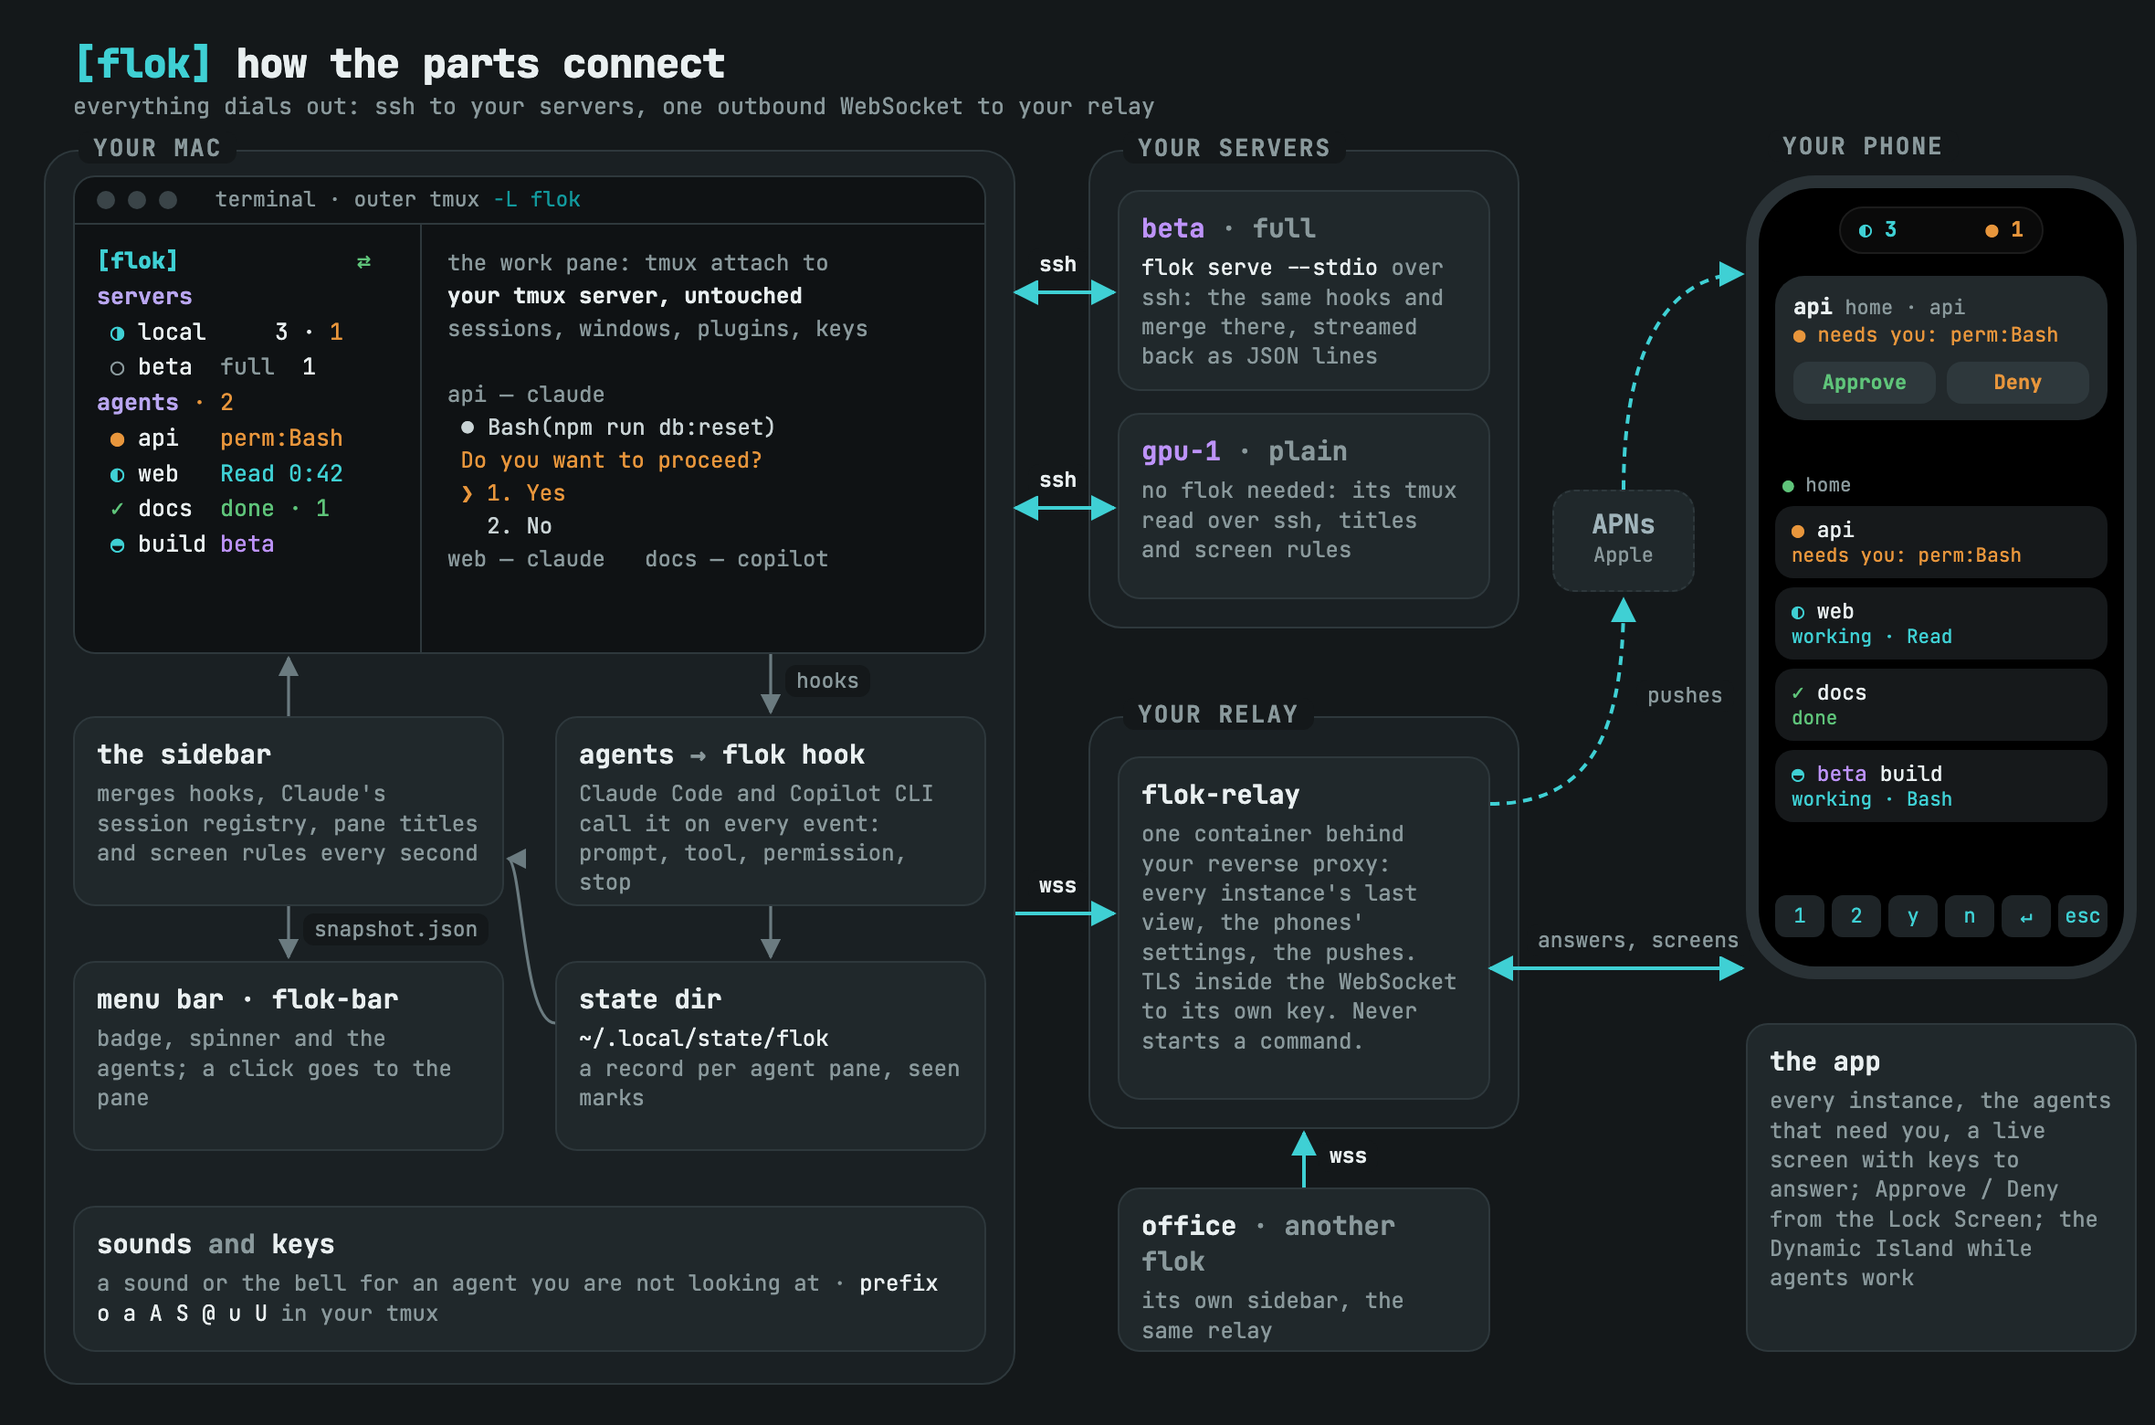
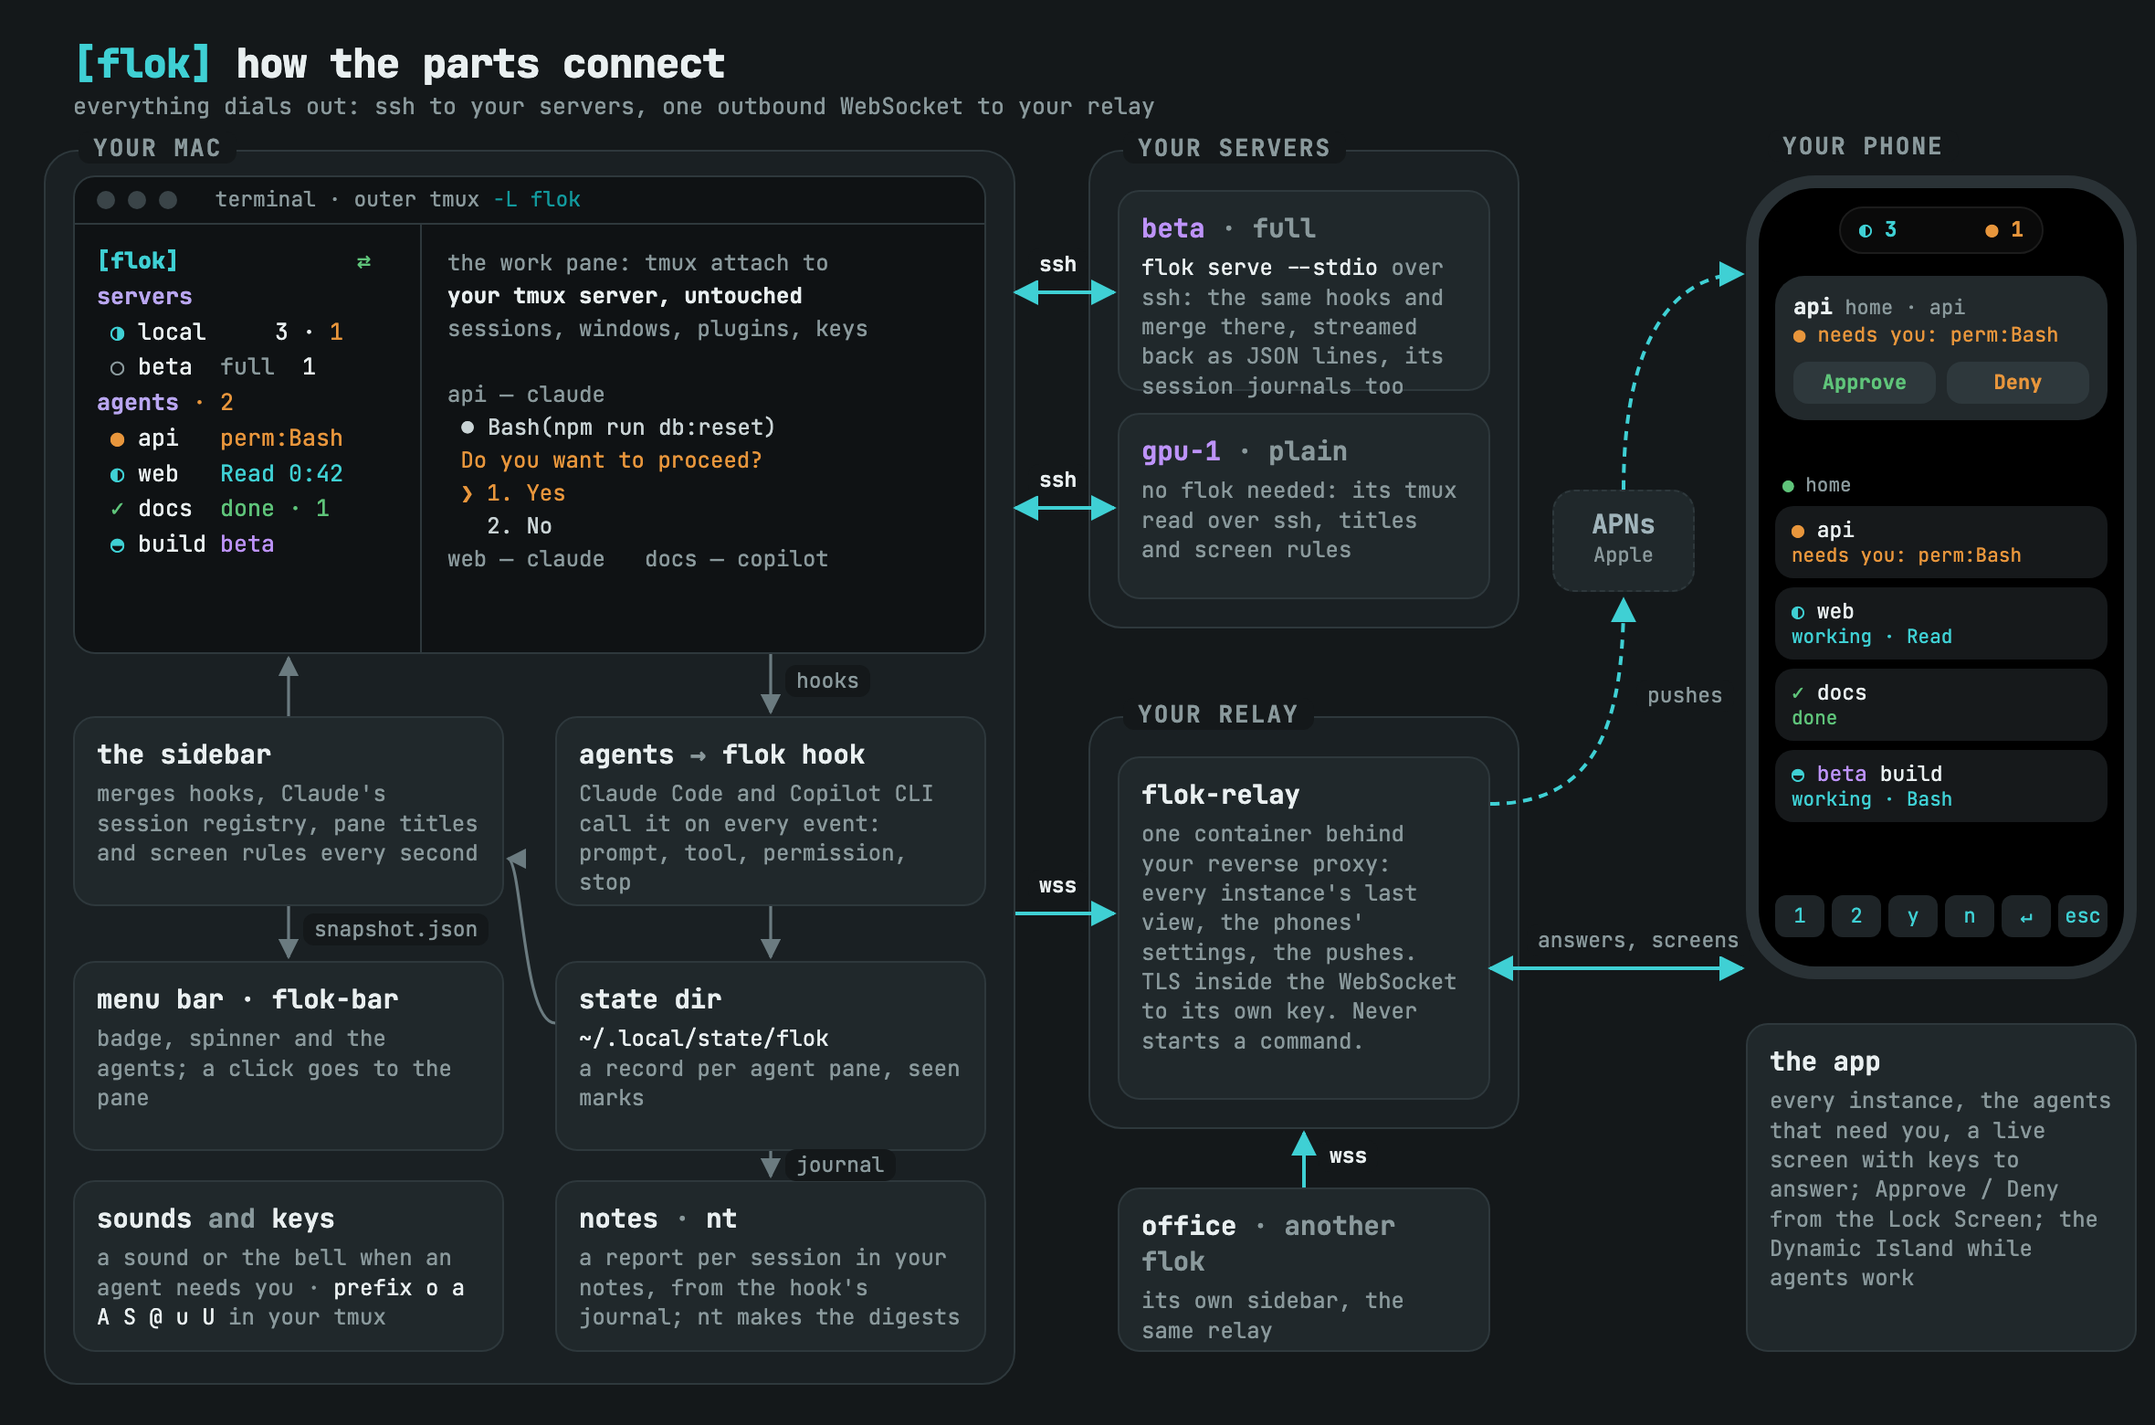
docs: session reports into nt across the README, the pages and the picture (#70)
The README's opening and features name nt as where a session's report lands, the setup lists
the three steps, and the architecture picture gains the notes box fed by the hook's journal
(and beta's serve streaming the journals too). docs/notes.md gets Setting it up, flok and nt
(who does what, the agent's own sections) and a report as nt writes it; how-it-works shows
the journal next to the pane record; remote-hosts, troubleshooting and development follow.

Claude-Session: https://claude.ai/code/session_01UGuG4sct7EHV6bnhKC2cL3

Changed region(s): [[0.0309, 0.8308, 0.4331, 0.9538], [0.5258, 0.2462, 0.6496, 0.2769], [0.3403, 0.8, 0.4021, 0.8308]]

diff --git a/assets/diagram/architecture.html b/assets/diagram/architecture.html
@@ -92,16 +92,20 @@
   <h3>state dir</h3>
   <p><code>~/.local/state/flok</code><br>a record per agent pane, seen marks</p>
 </div>
-<div class="box" style="left:40px;top:660px;width:500px;height:80px">
+<div class="box" style="left:40px;top:646px;width:236px;height:94px">
   <h3>sounds <span class="m">and</span> keys</h3>
-  <p>a sound or the bell for an agent you are not looking at · <code>prefix o a A S @ u U</code> in your tmux</p>
+  <p>a sound or the bell when an agent needs you · <code>prefix o a A S @ u U</code> in your tmux</p>
+</div>
+<div class="box" style="left:304px;top:646px;width:236px;height:94px">
+  <h3>notes <span class="m">·</span> <code>nt</code></h3>
+  <p>a report per session in your notes, from the hook's journal; nt makes the digests</p>
 </div>
 
 <!-- your servers -->
 <div class="panel" style="left:596px;top:82px;width:236px;height:262px"><div class="ptitle">your servers</div></div>
 <div class="box" style="left:612px;top:104px;width:204px;height:110px">
   <h3><span class="h">beta</span> <span class="m">· full</span></h3>
-  <p><code>flok serve --stdio</code> over ssh: the same hooks and merge there, streamed back as JSON lines</p>
+  <p><code>flok serve --stdio</code> over ssh: the same hooks and merge there, streamed back as JSON lines, its session journals too</p>
 </div>
 <div class="box" style="left:612px;top:226px;width:204px;height:102px">
   <h3><span class="h">gpu-1</span> <span class="m">· plain</span></h3>
@@ -158,6 +162,7 @@
     <path d="M304 560 C286 560, 286 470, 278 470" marker-end="url(#a)"/>     <!-- state dir → sidebar -->
     <path d="M158 392 L158 360" marker-end="url(#a)"/>                      <!-- sidebar draws -->
     <path d="M158 496 L158 524" marker-end="url(#a)"/>                      <!-- snapshot.json → bar -->
+    <path d="M422 630 L422 644" marker-end="url(#a)"/>                      <!-- journal → nt -->
   </g>
   <g fill="none" stroke="#3FD0D4" stroke-width="2">
     <path d="M556 160 L610 160" marker-end="url(#ac)" marker-start="url(#ac)"/>   <!-- ssh beta -->
@@ -177,4 +182,5 @@
 <div class="lab" style="left:896px;top:372px">pushes</div>
 <div class="lab" style="left:430px;top:364px">hooks</div>
 <div class="lab" style="left:166px;top:500px">snapshot.json</div>
+<div class="lab" style="left:430px;top:629px">journal</div>
 </body></html>

diff --git a/README.md b/README.md
@@ -11,11 +11,13 @@ the sessions, the agents below with their state, a sound when an agent needs you
 all three, and a `prefix ?` popup with your live keybinds. Agents can run wherever the work is:
 a host runs the same flok over your ssh config, and its agents arrive in the one sidebar, its
 tmux a key press away. A menu bar item on the Mac and an app on the iPhone show the same states
-while the terminal is out of sight. The sidebar is modelled on [herdr](https://herdr.dev)'s.
+while the terminal is out of sight. With [nt](https://github.com/w4jnl/nt), the notes tool,
+every session also leaves a report in your notes. The sidebar is modelled on
+[herdr](https://herdr.dev)'s.
 
 <p align="center"><img src="assets/demo.gif" alt="A 20-second recording of the sidebar next to three tmux sessions, with a servers panel listing local and the remote host beta: api asks for a Bash permission and turns orange, prefix o jumps to it, the answer is typed, api works again; docs stays done with one unread completion, build keeps working on beta" width="936"></p>
 
-<p align="center"><img src="assets/architecture.png" alt="How flok's parts connect. Your Mac: a terminal running the outer tmux with the flok sidebar next to the work pane, which attaches your own tmux server untouched; agents in it call flok hook, which writes the state dir; the sidebar merges hooks, Claude's registry, titles and screen rules and publishes snapshot.json for the menu bar; sounds, keys and ntfy. Your servers over ssh: beta in full mode runs flok serve, gpu-1 in plain mode is read through its tmux. One outbound WebSocket to your relay, flok-relay, which another flok at the office also dials; the relay talks to the app (answers, screens) and pushes through Apple's APNs to the phone, which shows the agents, a push with Approve and Deny, and the Dynamic Island" width="900"></p>
+<p align="center"><img src="assets/architecture.png" alt="How flok's parts connect. Your Mac: a terminal running the outer tmux with the flok sidebar next to the work pane, which attaches your own tmux server untouched; agents in it call flok hook, which writes the state dir; the sidebar merges hooks, Claude's registry, titles and screen rules and publishes snapshot.json for the menu bar; the hook's journal per session goes to nt as a report in your notes; sounds and keys. Your servers over ssh: beta in full mode runs flok serve, gpu-1 in plain mode is read through its tmux. One outbound WebSocket to your relay, flok-relay, which another flok at the office also dials; the relay talks to the app (answers, screens) and pushes through Apple's APNs to the phone, which shows the agents, a push with Approve and Deny, and the Dynamic Island" width="900"></p>
 
 <p align="center"><img src="assets/menubar-stack.png" alt="The macOS menu bar item with a working spinner and an orange badge for two agents waiting, and its dropdown: the agents with their states, one of them on the remote host beta, then a servers block with local and beta" height="360">&nbsp;&nbsp;&nbsp;&nbsp;<img src="assets/phone-screens.jpg" alt="Two iPhone screens of the flok app: the list of two instances, home and office, with their agents (api needs a Bash permission, web and build on the host beta work, docs is done, billing idle); a long-pressed push for api with the agent's screen, keys and Approve, Deny and Mute 1 h" height="360"></p>
 
@@ -25,7 +27,9 @@ to the front on that pane. **On the iPhone**, the app, through a relay you run: 
 list, an agent's live screen with keys to answer, a reply typed or dictated (hold the
 microphone), Claude's question forms filled in as forms, a screenshot or a photo sent to the
 agent, a push with Approve, Deny and Reply when one needs you (a long press shows its screen),
-and a Live Activity while agents work.
+and a Live Activity while agents work. **In your notes** (opt-in, with nt): a report per
+session, the turns with their tools, blocks, questions and waits, kept with nt's daily and
+weekly digests; flok is the one hook receiver, nt the one writer of the notes.
 
 ## Setup
 
@@ -86,6 +90,8 @@ manifests, the keys flok has in your tmux, the running outer session, every remo
   [tmux-resurrect](docs/tmux-resurrect.md).
 - Agents on other machines: [Remote hosts](docs/remote-hosts.md). The phone: [Setting it
   up](docs/phone.md#setting-it-up).
+- Session reports in your notes: `brew install w4jnl/tap/nt` (0.7.0 or newer), `nt init`, then
+  `command = "auto"` under `[notes]` in config.toml. [Session reports](docs/notes.md)
 
 ## Why flok
 

diff --git a/docs/notes.md b/docs/notes.md
@@ -20,6 +20,74 @@ flok doctor                 # notes: /opt/homebrew/bin/nt writes the session rep
 flok host notes beta off    # a remote host whose agents this machine does not report
 ```
 
+## Setting it up
+
+1. nt 0.7.0 or newer on the machine that runs the sidebar (`brew install w4jnl/tap/nt`), with a
+   notes repository (`nt init`, or the one you have). Nothing on a remote host.
+2. `command = "auto"` under `[notes]` in `~/.config/flok/config.toml`; `flok doctor` then names
+   the nt it found. Sessions already running join at their next event.
+3. If nt's own hooks were installed before (nt 0.6 and earlier): `nt uninstall --hooks`. They
+   stop writing as soon as flok imports a session, so the order does not matter.
+
+## flok and nt
+
+The two tools split the work along what each one knows. flok watches the agents: it is the one
+receiver of Claude Code's and Copilot CLI's hooks, on this machine and on the hosts it drives,
+and the session's story (what it ran, where it blocked, what it asked, how long it waited, how
+it ended) is in flok and nowhere else. nt keeps the notes: the repository, its file format and
+lock, the sessions map that lets an agent find its own report, the day's digest and the week's.
+So flok produces the report's content and hands it over; nt renders and writes it, and installs
+no agent hooks of its own.
+
+What the agent itself writes stays with nt: at the end of a piece of work it runs `nt agent
+write` through the nt skill, with Done, Decisions and Open, and nt puts that into the same
+file; an import never touches those sections. A session's report therefore reads in two voices,
+flok's account of what happened and the agent's account of what it means.
+
+A report, as nt writes it from flok's record (the agent's own sections still empty):
+
+```markdown
+---
+type: agent-report
+schema: 1
+date: 2026-10-29
+created: 2026-10-29T23:22:58+01:00
+updated: 2026-10-29T23:23:02+01:00
+ended: 2026-10-29T23:23:02+01:00
+agent: claude-code
+model: claude-fable-5-1
+host: jaromac
+session: aaaa1111-2222-3333-4444-555566667777
+project: flok
+cwd: /Volumes/data/work/claude/flok
+git_branch: notes-reports
+git_head: da63aaf
+status: done
+turns: 3
+tools: 3
+---
+
+# flok
+
+## Done
+
+## Decisions
+
+## Open
+
+## Log
+
+- 23:22 started in /Volumes/data/work/claude/flok (notes-reports)
+- 23:23 All tests are green, the change is in main.go.
+  - Bash ×1, Edit ×1
+  - 23:22 blocked: permission: Bash
+- 23:23 Waiting for the explorer.
+  - 23:23 waited 1 s for agent
+- 23:23 The explorer found nothing new.
+  - Read ×1
+- 23:23 ended
+```
+
 ## What a report gets
 
 The hook on every machine keeps a journal under `~/.local/state/flok/sessions/<session id>.json`:

diff --git a/docs/how-it-works.md b/docs/how-it-works.md
@@ -79,6 +79,8 @@ it when the outer goes (a detach, `flok down`).
 ```
  Claude Code / Copilot CLI ──hooks──► flok hook ──► ~/.local/state/flok/agents/<pane>.json
                                                   (per-pane record, flock + atomic write, plays the sound)
+                                              └──► ~/.local/state/flok/sessions/<session>.json ──► nt agent import
+                                                  (the session's journal; with [notes] on, a report in your notes)
                                                               │ fsnotify
  tmux snapshot (1 s) ──────────────────────────────────────┐  │
  claude agents --json (10 s, pid → tty → pane) ────────────┤  ▼
@@ -107,6 +109,12 @@ idle prompt box visible for three polls, six while Claude's registry still repor
 a *working* state that no hook closed; the idle
 prompt box visible for two polls clears a *blocked* state whose dialog is gone. A `~` before an
 agent's name means no hook data has arrived for that pane (restart the agent after `flok install`).
+
+The hook keeps one more thing, beside the pane's record: a journal per session, the turns with
+the first line of each answer, the tools as names and counts, the blocks, questions, waits and
+errors. It is what the session's report in your notes is made of, when `[notes]` hands it to
+[nt](https://github.com/w4jnl/nt); the sidebar itself never reads it.
+[Session reports](notes.md)
 
 ## States
 

diff --git a/docs/troubleshooting.md b/docs/troubleshooting.md
@@ -33,6 +33,13 @@
 - Agents on a full-mode host show only title and screen states: `flok install --claude` was not
   run on that host (`flok doctor` reports it). Sounds for remote agents play on the local side;
   `FLOK_DEBUG=1` writes the connection log to `remote.log` in the state dir.
+- No session reports in nt: `flok doctor` says whether `[notes]` is on, which nt it found and
+  when the last import was (`notes: off` means the key is not set; nt below 0.7.0 has no
+  `agent import`). A session outside tmux is never seen by flok. A failed import is one line in
+  `hook.log` in the state dir, per session; the next import carries the whole journal again.
+  For a host: its row's footer line says when another machine imports it (`flok host notes
+  <name> on --take`), `events.log` holds a record nt refused, and `hosts/<name>/notes-cursor`
+  moves with every import.
 - The phone shows nothing from this flok: `flok link status` says whether the link is on and
   connected (a `–` at the end of the `[flok]` line means switched off: `prefix U`), `flok doctor`
   why it is refused or out of reach. `flok-relay tail -url … -token <phone token>` shows what

diff --git a/CLAUDE.md b/CLAUDE.md
@@ -9,8 +9,8 @@ A herdr-like agent sidebar for tmux, written in Go (single binary, no cgo). It r
 sidebar on the left and a plain `tmux attach` to the user's normal **inner** server on the right.
 The sidebar never modifies the inner server's config; it only drives the inner client with
 `switch-client`. The README is the front page; `docs/` holds the detail (how it works, remote
-hosts, the phone, the menu bar, keys, `reference.md` with every command and config key,
-troubleshooting, development). Both are accurate; read them for user-facing behaviour, and keep
+hosts, the phone, session reports into nt, the menu bar, keys, `reference.md` with every
+command and config key, troubleshooting, development). Both are accurate; read them for user-facing behaviour, and keep
 them in step with a change.
 
 ## Commands

diff --git a/docs/remote-hosts.md b/docs/remote-hosts.md
@@ -48,7 +48,8 @@ connect|disconnect` (or `c` on a row of the servers panel) changes the set while
 
 In **full** mode the local flok runs `flok serve --stdio` on the host: the same hooks, Claude
 registry and screen rules the sidebar would use there, merged on the host and streamed back as
-JSON lines over the ssh session. The sounds play here; the host's own hooks stay silent while it
+JSON lines over the ssh session, and, with `[notes]` on here, the journals of its sessions for
+their reports in your notes. The sounds play here; the host's own hooks stay silent while it
 is served (a `served` record in its state dir says so). In **plain** mode the local flok drives the
 host's tmux over ssh itself: titles and screen rules, no hook states, slower polls; for hosts
 where flok cannot be installed.

diff --git a/docs/development.md b/docs/development.md
@@ -48,6 +48,7 @@ internal/awake         keep-awake power assertions (IOKit through purego, no cgo
 internal/merge         authority merge of all state sources into one snapshot
 internal/state         hook state machine and the file store (flock, atomic writes)
 internal/agent         model, events, adapters (claude, copilot)
+internal/notes         the journal per agent session, its import worker and the hosts' claim; the record is the contract with nt (docs/notes.md)
 internal/rules         herdr manifest engine (regions, matchers), bundled manifests
 internal/claudereg     `claude agents --json` reader, pid → tty → pane
 internal/tmux          exec-based tmux client, one-call snapshot
